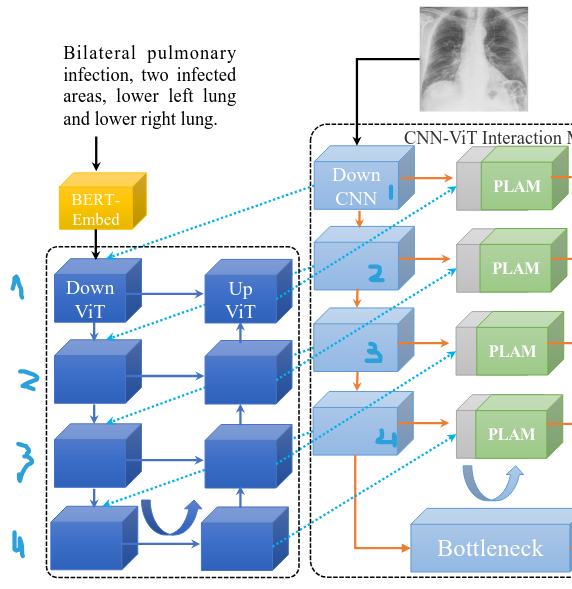
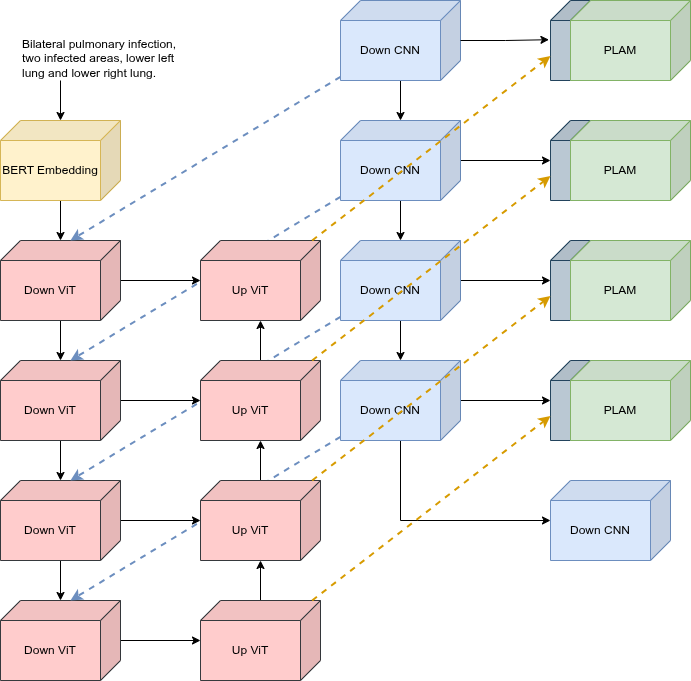
experiment: run MosMedDataPlus

diff --git a/Source code/Config.py b/Source code/Config.py
@@ -15,17 +15,17 @@ os.environ['PYTHONHASHSEED'] = str(seed)
 cosineLR = True  # Use cosineLR or not
 n_channels = 3
 n_labels = 1  # MoNuSeg & Covid19
-epochs = 500
+epochs = 100
 img_size = 224
-print_frequency = 10
+print_frequency = 50
 # save_frequency = 5000
 vis_frequency = 10
 early_stopping_patience = 50
 
 pretrain = False
 # task_name = 'MoNuSeg', 'MosMedDataPlus'
-task_name = 'Covid19'
-learning_rate = 3e-4  # MoNuSeg, MosMedDataPlus: 1e-3, Covid19: 3e-4
+task_name = 'MosMedDataPlus'
+learning_rate = 1e-3  # MoNuSeg, MosMedDataPlus: 1e-3, Covid19: 3e-4
 batch_size = 24
 
 model_name = 'LViT'

diff --git a/Source code/train_model.py b/Source code/train_model.py
@@ -68,7 +68,7 @@ def main_loop(batch_size=config.batch_size, model_type='', tensorboard=True):
     # Load train and val data
     train_tf = transforms.Compose([RandomGenerator(output_size=[config.img_size, config.img_size])])
     val_tf = ValGenerator(output_size=[config.img_size, config.img_size])
-    if config.task_name == 'MoNuSeg':
+    if config.task_name == 'MoNuSeg' or config.task_name == 'MosMedDataPlus':
         train_text = read_text(config.train_dataset + 'Train_text.xlsx')
         val_text = read_text(config.val_dataset + 'Val_text.xlsx')
         train_dataset = ImageToImage2D(config.train_dataset, config.task_name, train_text, train_tf,